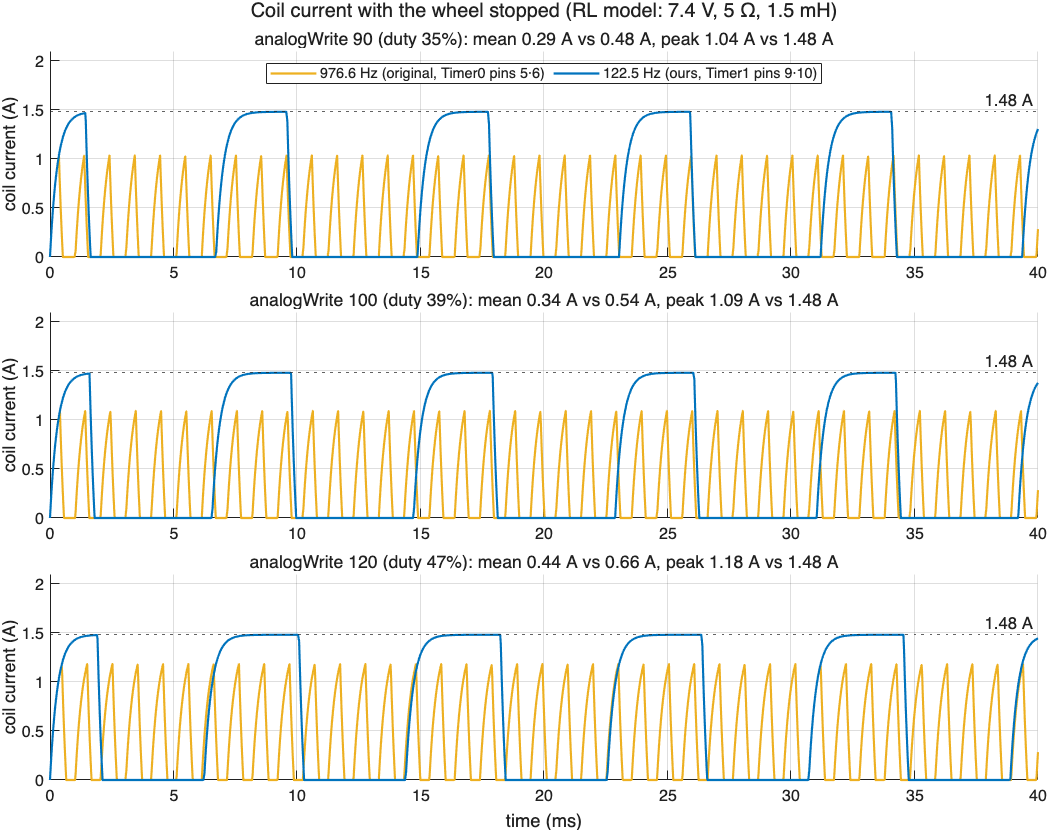
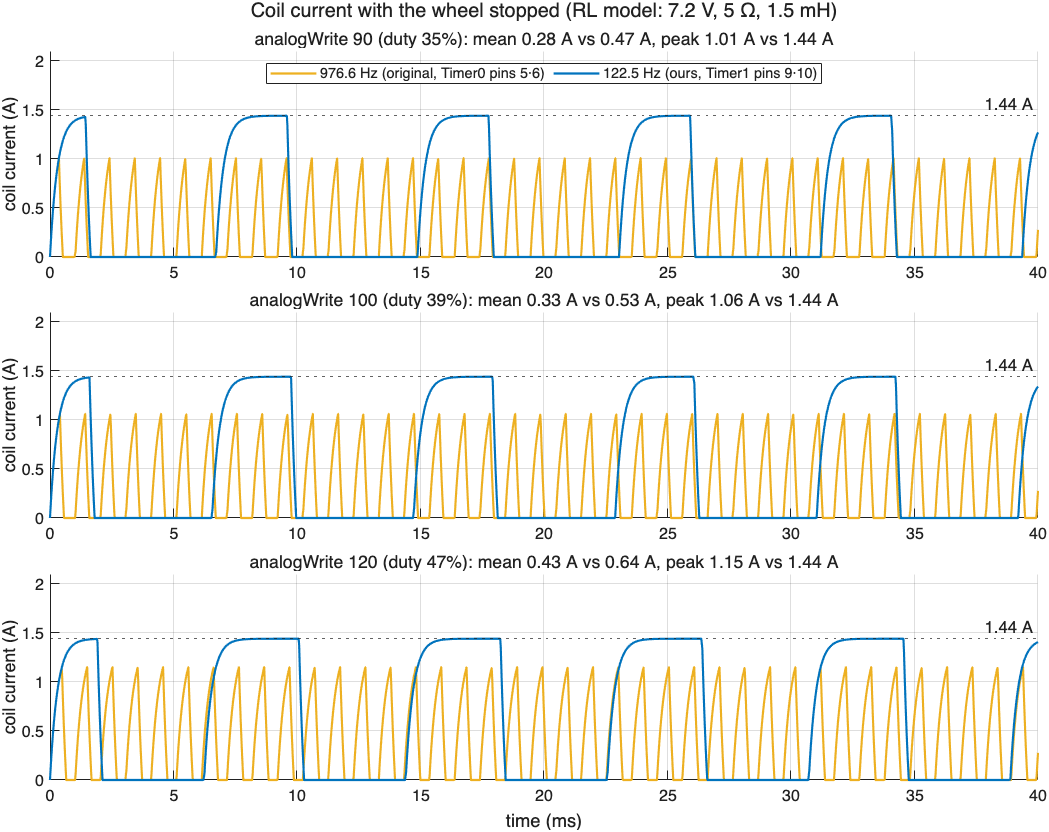
코일 전류 모델을 실제 배터리(1.2V 충전지 6개 = 7.2V)로 다시 계산 (% 와 결론은 같음), NOTICE 에 MATLAB·Simulink (스크립트 MIT, 그래프 CC BY, MATLAB 은 저장소에 없음·상표)

diff --git a/docs/matlab/pwm_power_simulink.m b/docs/matlab/pwm_power_simulink.m
@@ -9,7 +9,7 @@
 % 문서 그림 저장 : export_doc_figures.m 이 lang, exportFile 을 정하고 이 파일을 부름
 
 vals = [90 100 120];        % analogWrite 값. 바꿔서 다시 Run
-V  = 7.4;                   % 배터리 전압 (L298N 전압 강하는 무시). 실제 차에 맞게 고칠 것
+V  = 7.2;                   % 배터리 전압 : 1.2V 충전지 6개 (L298N 전압 강하는 무시)
 R  = 5;                     % 모터 코일 저항 (옴), 예시값
 Lh = 1.5e-3;                % 모터 코일 인덕턴스 (H), 예시값 -> 시간상수 L/R = 0.3ms
 tEnd = 0.04;                % 40ms

diff --git a/README.en.md b/README.en.md
@@ -276,23 +276,23 @@ PWM switches the motor power on and off very fast and sets the power by the frac
 
 ![Coil current at the same analogWrite values, original 976.6 Hz vs our 122.5 Hz (MATLAB · Simulink)](docs/img/pwm_coil_current.en.png)
 
-The same `analogWrite` value (90 · 100 · 120) drives a different current (= force) through the motor coil (Simulink model [`pwm_power_simulink.m`](docs/matlab/pwm_power_simulink.m); simple RL model with the wheel stopped, 7.4 V · 5 Ω · 1.5 mH):
+The same `analogWrite` value (90 · 100 · 120) drives a different current (= force) through the motor coil (Simulink model [`pwm_power_simulink.m`](docs/matlab/pwm_power_simulink.m); simple RL model with the wheel stopped, 7.2 V (six 1.2 V cells) · 5 Ω · 1.5 mH):
 
 | `analogWrite` | Duty | Original 976.6 Hz: mean / peak | Ours 122.5 Hz: mean / peak |
 |---|---|---|---|
-| 90 | 35 % | 0.29 A / 1.04 A (70 %) | **0.48 A / 1.48 A (100 %)** |
-| 100 | 39 % | 0.34 A / 1.09 A (74 %) | **0.54 A / 1.48 A (100 %)** |
-| 120 | 47 % | 0.44 A / 1.18 A (80 %) | **0.66 A / 1.48 A (100 %)** |
+| 90 | 35 % | 0.28 A / 1.01 A (70 %) | **0.47 A / 1.44 A (100 %)** |
+| 100 | 39 % | 0.33 A / 1.06 A (74 %) | **0.53 A / 1.44 A (100 %)** |
+| 120 | 47 % | 0.43 A / 1.15 A (80 %) | **0.64 A / 1.44 A (100 %)** |
 
 - **The yellow line (976.6 Hz) looks like a triangle wave, but it is not one.** It is not the timer counter; it is the **coil current**. When the pin switches on, the current rises along a curve, but it switches off after only 0.36–0.48 ms, so only the start of the curve (almost straight) is used; when it switches off, the L298N pulls the current out fast, so it falls in a straight line. A rising line plus a falling line looks like a triangle, but it is **current that is cut off every time before it fills up**.
-- **The blue line (122.5 Hz)** stays on 2.9–3.8 ms, so it reaches the top (1.48 A) every time and stays flat. The value only sets **how long** that full force lasts.
+- **The blue line (122.5 Hz)** stays on 2.9–3.8 ms, so it reaches the top (1.44 A) every time and stays flat. The value only sets **how long** that full force lasts.
 - So at the same value the mean force is about 1.5–1.7×, the peak force 1.25–1.4×. That is why, with the original wiring, 90 could not start the wheels and a 255 kick was needed. Full calculation and graphs: [`docs/PWM.en.md`](docs/PWM.en.md).
-- **Why the car only moved at high frequency when the PWM value was raised a lot**: at 976.6 Hz, raising `analogWrite` doesn't give force in proportion, because the current is **cut off every time before it fills up**. In the same simulation, matching the mean current of 90 at 122.5 Hz (0.48 A) takes **about 130** at 976.6 Hz, and the peak current is still only 94 % at 210; it reaches 100 % only at **255 (always on)**. That is why version C needed a **255 start kick** for 0.12 s on top of the 90 minimum (`MIN_PWM`) to get a stopped car moving. At 122.5 Hz even a small value fills up to 1.48 A every time, so a 170 kick for 0.06 s is enough.
+- **Why the car only moved at high frequency when the PWM value was raised a lot**: at 976.6 Hz, raising `analogWrite` doesn't give force in proportion, because the current is **cut off every time before it fills up**. In the same simulation, matching the mean current of 90 at 122.5 Hz (0.47 A) takes **about 130** at 976.6 Hz, and the peak current is still only 94 % at 210; it reaches 100 % only at **255 (always on)**. That is why version C needed a **255 start kick** for 0.12 s on top of the 90 minimum (`MIN_PWM`) to get a stopped car moving. At 122.5 Hz even a small value fills up to 1.44 A every time, so a 170 kick for 0.06 s is enough.
 
 | | High frequency (version C) | Low frequency (version E) |
 |---|---|---|
 | Frequency | UNO default `analogWrite`: pins 5 and 6 at **976.6 Hz** (1.024 ms period) | Timer1 set directly: pins 9 and 10 at **122.5 Hz** (8.16 ms period) |
-| Low-speed force | Weak. The on-time (0.36 ms at 90) is short, so it switches off before the coil current fills up → at 90: mean 0.29 A, peak 70 % | Strong. The on-time (2.9 ms at 90) is long, so it fills up every time → at 90: mean 0.48 A, peak 100 % |
+| Low-speed force | Weak. The on-time (0.36 ms at 90) is short, so it switches off before the coil current fills up → at 90: mean 0.28 A, peak 70 % | Strong. The on-time (2.9 ms at 90) is long, so it fills up every time → at 90: mean 0.47 A, peak 100 % |
 | Consequence | Minimum `MIN_PWM` 90 + start kick 255 (0.12 s) to force a start → **jerky** in manual, and at low speed only a whine with no torque | Kick cut to **170 for 0.06 s** → smooth starts and slow driving, easier precise control |
 | Sound | A high **whine** at low speed (976.6 Hz is right where the ear is most sensitive; the wheel doesn't turn, only the coil vibrates) | **Quieter** (observed 2026-11-16: the wheel actually turns, so the whine is gone; 122 Hz is a low tone the ear hears less) |
 | Downside | None | The servo can't move while driving (Timer1 drives the motors; the servo only needs to face forward once at startup) |

diff --git a/NOTICE.md b/NOTICE.md
@@ -9,8 +9,8 @@
 
 | 무엇 / What | 라이선스 / License |
 |---|---|
-| 소스 코드 : Arduino 스케치 (`arduino/`), ESP32-CAM 펌웨어·웹 화면 (`esp32/`), 앱 (`apps/`), 시험·도구 / Source code: Arduino sketches, ESP32-CAM firmware and web page, apps, tests and tools | **MIT** ([`LICENSE`](LICENSE)) |
-| 사진·영상·그림·주행 로그·문서 (`docs/`, README, 릴리스의 사진·영상) / Photos, videos, figures, drive logs, documentation | **CC BY 4.0** — 출처 표시 : "4wd-car Team 2 Gulno" / Attribution: "4wd-car Team 2 Gulno" |
+| 소스 코드 : Arduino 스케치 (`arduino/`), ESP32-CAM 펌웨어·웹 화면 (`esp32/`), 앱 (`apps/`), MATLAB·Simulink 스크립트 (`docs/matlab/`), 시험·도구 / Source code: Arduino sketches, ESP32-CAM firmware and web page, apps, MATLAB · Simulink scripts, tests and tools | **MIT** ([`LICENSE`](LICENSE)) |
+| 사진·영상·그림(MATLAB·Simulink 로 그린 그래프·스코프 화면 포함)·주행 로그·문서 (`docs/`, README, 릴리스의 사진·영상) / Photos, videos, figures (including graphs and scope screenshots made with MATLAB · Simulink), drive logs, documentation | **CC BY 4.0** — 출처 표시 : "4wd-car Team 2 Gulno" / Attribution: "4wd-car Team 2 Gulno" |
 
 - 누구나 자유롭게 쓰고, 고치고, 다시 배포하고, 상업적으로도 쓸 수 있습니다. 코드는 저작권·허가 문구(`LICENSE`)를, 사진·문서는 출처를 남겨 주세요.
 - Anyone may use, modify, redistribute, and use commercially. Keep the copyright and permission notice (`LICENSE`) for code, and give attribution for photos and documents.
@@ -34,6 +34,7 @@ Not stored in this repository (downloaded at build time) unless noted, or linked
 | AndroidX, Kotlin standard library | 안드로이드 앱 / Android app | Apache-2.0 |
 | SwiftUI, CoreBluetooth (Apple SDK) | 아이폰·맥 앱 / iOS and macOS app | Apple SDK license |
 | Web Bluetooth / Web Serial (브라우저 기능 / browser APIs) | `apps/web/index.html` | — |
+| MATLAB, Simulink (MathWorks) | `docs/matlab/` 스크립트를 돌리고 문서 그래프를 그리는 데 씀. 저장소·릴리스에 들어 있지 않음, 돌리려면 각자의 MATLAB·Simulink 라이선스 필요 / used to run `docs/matlab/` and draw the document graphs; not included, running them needs your own MATLAB · Simulink license | MathWorks 상용 라이선스 / commercial |
 
 - **LGPL 부분 / LGPL parts** : 릴리스 펌웨어(`4wd-car-esp32cam-v1.0-*.bin`)에는 LGPL-2.1 인 arduino-esp32 가 링크되어 있습니다. 이 저장소에 펌웨어 소스와 빌드 설정(브랜치 `extra/esp32cam` 의 `esp32/esp32cam_line/platformio.ini`)이 모두 있어서, 누구나 그 라이브러리를 바꿔 다시 빌드·링크할 수 있습니다 ([`docs/ESP32_UPLOAD.md`](https://github.com/CHOESEUNGJUN/4wd_car_project/blob/extra/esp32cam/docs/ESP32_UPLOAD.md) 방법 B). 라이브러리 소스 : https://github.com/espressif/arduino-esp32 , https://github.com/pioarduino/platform-espressif32
   The release firmware links arduino-esp32 (LGPL-2.1). This repository contains the complete firmware source and build configuration, so anyone can modify those libraries and rebuild/relink (see [`docs/ESP32_UPLOAD.en.md`](https://github.com/CHOESEUNGJUN/4wd_car_project/blob/extra/esp32cam/docs/ESP32_UPLOAD.en.md), method B). Library sources at the links above.
@@ -43,5 +44,5 @@ Not stored in this repository (downloaded at build time) unless noted, or linked
 
 - **수업 교안** `minicar_lecture_deck_all_teams_v5.pdf` 는 수업에서 받은 자료로 저작권이 작성자에게 있어 **이 저장소에 넣지 않습니다** (2026-11-18 저장소에서 뺌, 예전 커밋 기록에는 남아 있음). 문서에서 "교안 n쪽" 은 그 자료를 가리킵니다.
   The **course lecture deck** belongs to its authors and is **not distributed here** (removed from the repository on 2026-11-18; it remains in older commits). "Lecture deck p. n" in the docs refers to it.
-- Arduino, Espressif, ESP32, Eduino, Apple, iPhone, Android, Google Chrome, Bluetooth 등은 각 회사의 상표입니다. 이 프로젝트는 그 회사들과 관계가 없습니다.
-  Arduino, Espressif, ESP32, Eduino, Apple, iPhone, Android, Google Chrome, Bluetooth and other names are trademarks of their owners. This project is not affiliated with them.
+- Arduino, Espressif, ESP32, Eduino, Apple, iPhone, Android, Google Chrome, Bluetooth, MATLAB, Simulink, MathWorks 등은 각 회사의 상표입니다. 이 프로젝트는 그 회사들과 관계가 없습니다.
+  Arduino, Espressif, ESP32, Eduino, Apple, iPhone, Android, Google Chrome, Bluetooth, MATLAB, Simulink, MathWorks and other names are trademarks of their owners. This project is not affiliated with them.

diff --git a/docs/PWM.en.md b/docs/PWM.en.md
@@ -74,27 +74,27 @@ Doubling the prescaler makes each step twice as slow, so the frequency **halves*
 
 | `analogWrite` | Duty | Original 976.6 Hz: mean / peak | Ours 122.5 Hz: mean / peak |
 |---|---|---|---|
-| 90 | 35 % | 0.29 A (20 %) / 1.04 A (70 %) | **0.48 A (33 %) / 1.48 A (100 %)** |
-| 100 | 39 % | 0.34 A (23 %) / 1.09 A (74 %) | **0.54 A (37 %) / 1.48 A (100 %)** |
-| 120 | 47 % | 0.44 A (30 %) / 1.18 A (80 %) | **0.66 A (45 %) / 1.48 A (100 %)** |
+| 90 | 35 % | 0.28 A (20 %) / 1.01 A (70 %) | **0.47 A (33 %) / 1.44 A (100 %)** |
+| 100 | 39 % | 0.33 A (23 %) / 1.06 A (74 %) | **0.53 A (37 %) / 1.44 A (100 %)** |
+| 120 | 47 % | 0.43 A (30 %) / 1.15 A (80 %) | **0.64 A (45 %) / 1.44 A (100 %)** |
 
-(Brackets = share of 1.48 A, the current if always on. Simulink model [`matlab/pwm_power_simulink.m`](matlab/pwm_power_simulink.m): RL model with the wheel stopped (no back-EMF), 7.4 V · 5 Ω · 1.5 mH, on = +V, off = −V through the L298N diodes. These are example values, so the real car's numbers can differ; the difference between the two frequencies goes the same way.)
+(Brackets = share of 1.44 A, the current if always on. Simulink model [`matlab/pwm_power_simulink.m`](matlab/pwm_power_simulink.m): RL model with the wheel stopped (no back-EMF), 7.2 V (six 1.2 V cells) · 5 Ω · 1.5 mH, on = +V, off = −V through the L298N diodes. These are example values, so the real car's numbers can differ; the difference between the two frequencies goes the same way.)
 
 - **The yellow line (976.6 Hz) looks like a triangle wave, but it is not one.** It is the **coil current**, not the counter. It rises along a curve but switches off after only 0.36–0.48 ms, so only the start of the curve (almost straight) is used; when off, the L298N pulls the current out fast, so it drops in a straight line. It only looks like a triangle; it is **current cut off every time before it fills up**.
 - At 976.6 Hz the time spent pulling the current out is a big share of each period, so a 35 % duty gives only 20 % mean current. At 122.5 Hz that loss is small, so it gives 33 %, close to the duty.
-- **The blue line (122.5 Hz)** reaches 1.48 A every time and stays flat. Raising the value makes it **wider**, not higher.
+- **The blue line (122.5 Hz)** reaches 1.44 A every time and stays flat. Raising the value makes it **wider**, not higher.
 
 **Why the car only moved at high frequency when the PWM value was raised a lot**: the same model with higher values (only `vals` changed in `pwm_power_simulink.m`):
 
 | `analogWrite` | 976.6 Hz: mean / peak | 122.5 Hz: mean / peak |
 |---|---|---|
-| 130 | 0.49 A / 1.22 A (82 %) | 0.72 A / 1.48 A (100 %) |
-| 150 | 0.60 A / 1.28 A (87 %) | 0.83 A / 1.48 A (100 %) |
-| 180 | 0.77 A / 1.35 A (91 %) | 1.01 A / 1.48 A (100 %) |
-| 210 | 0.96 A / 1.40 A (94 %) | 1.18 A / 1.48 A (100 %) |
-| 255 | 1.48 A / 1.48 A (100 %) | 1.48 A / 1.48 A (100 %) |
+| 130 | 0.48 A / 1.19 A (82 %) | 0.70 A / 1.44 A (100 %) |
+| 150 | 0.58 A / 1.25 A (87 %) | 0.81 A / 1.44 A (100 %) |
+| 180 | 0.74 A / 1.31 A (91 %) | 0.98 A / 1.44 A (100 %) |
+| 210 | 0.93 A / 1.36 A (94 %) | 1.15 A / 1.44 A (100 %) |
+| 255 | 1.44 A / 1.44 A (100 %) | 1.44 A / 1.44 A (100 %) |
 
-- Matching the mean current of 90 at 122.5 Hz (0.48 A) takes **about 130** at 976.6 Hz.
+- Matching the mean current of 90 at 122.5 Hz (0.47 A) takes **about 130** at 976.6 Hz.
 - At 976.6 Hz the peak current is still 94 % at 210 and reaches 100 % only at **255 (always on)**. That is why version C needed a **255 kick** to start a stopped car.
 
 As seen on the Simulink scope (top to bottom 90 / 100 / 120, yellow 976.6 Hz, blue 122.5 Hz):

diff --git a/docs/REPORT_20261116.en.md b/docs/REPORT_20261116.en.md
@@ -39,7 +39,7 @@
 
 Lesson: how PWM frequency relates to torque (compared with VVVF trains and engine torque vs horsepower). The goal is precise control, not top speed, so we fixed the low frequency.
 
-Calculation and graphs (added 2026-11-18): frequency = 16,000,000 ÷ (prescaler × steps per period); Timer1 triangle, prescaler 256 → 16,000,000 ÷ (256 × 510) = 122.5 Hz. At the same 30 % duty each pulse lasts 0.31 ms (Timer0 default) → 2.45 ms (Timer1). Checked with MATLAB and Simulink: [`PWM.en.md`](PWM.en.md) (calculation, model). Coil current (Simulink RL model): at analogWrite 90 the mean is 0.29 A (976.6 Hz) vs 0.48 A (122.5 Hz), peak 70 % vs 100 %. Matching that mean at 976.6 Hz takes about 130, and the peak reaches 100 % only at 255 → why version C needed the 255 kick (model).
+Calculation and graphs (added 2026-11-18): frequency = 16,000,000 ÷ (prescaler × steps per period); Timer1 triangle, prescaler 256 → 16,000,000 ÷ (256 × 510) = 122.5 Hz. At the same 30 % duty each pulse lasts 0.31 ms (Timer0 default) → 2.45 ms (Timer1). Checked with MATLAB and Simulink: [`PWM.en.md`](PWM.en.md) (calculation, model). Coil current (Simulink RL model): at analogWrite 90 the mean is 0.28 A (976.6 Hz) vs 0.47 A (122.5 Hz), peak 70 % vs 100 %. Matching that mean at 976.6 Hz takes about 130, and the peak reaches 100 % only at 255 → why version C needed the 255 kick (model).
 
 ## 2. Camera principle change: signals only
 

diff --git a/docs/REPORT_20261116.md b/docs/REPORT_20261116.md
@@ -39,7 +39,7 @@
 
 배운 것 : PWM 주파수와 토크의 관계 (VVVF 전동차·엔진 토크/마력 비유). 빨리 달리는 게 목적이 아니라 정밀 제어라서 저주파로 고정.
 
-계산과 그래프 (2026-11-18 추가) : 주파수 = 16,000,000 ÷ (분주 × 한 주기 칸 수), Timer1 삼각파 분주 256 → 16,000,000 ÷ (256 × 510) = 122.5Hz. 같은 듀티 30% 에서 한 번 켜지는 길이 0.31ms (Timer0 기본) → 2.45ms (Timer1). MATLAB·Simulink 로 확인 : [`PWM.md`](PWM.md) (계산·모델). 코일 전류 (Simulink RL 모델) : 같은 analogWrite 90 에서 평균 0.29A (976.6Hz) vs 0.48A (122.5Hz), 순간 70% vs 100%. 976.6Hz 로 같은 평균을 내려면 약 130, 순간 100% 는 255 에서만 → 버전 C 의 킥 255 가 필요했던 이유 (모델).
+계산과 그래프 (2026-11-18 추가) : 주파수 = 16,000,000 ÷ (분주 × 한 주기 칸 수), Timer1 삼각파 분주 256 → 16,000,000 ÷ (256 × 510) = 122.5Hz. 같은 듀티 30% 에서 한 번 켜지는 길이 0.31ms (Timer0 기본) → 2.45ms (Timer1). MATLAB·Simulink 로 확인 : [`PWM.md`](PWM.md) (계산·모델). 코일 전류 (Simulink RL 모델) : 같은 analogWrite 90 에서 평균 0.28A (976.6Hz) vs 0.47A (122.5Hz), 순간 70% vs 100%. 976.6Hz 로 같은 평균을 내려면 약 130, 순간 100% 는 255 에서만 → 버전 C 의 킥 255 가 필요했던 이유 (모델).
 
 ## 2. 카메라 원칙 변경 : 신호등·표지판만
 
